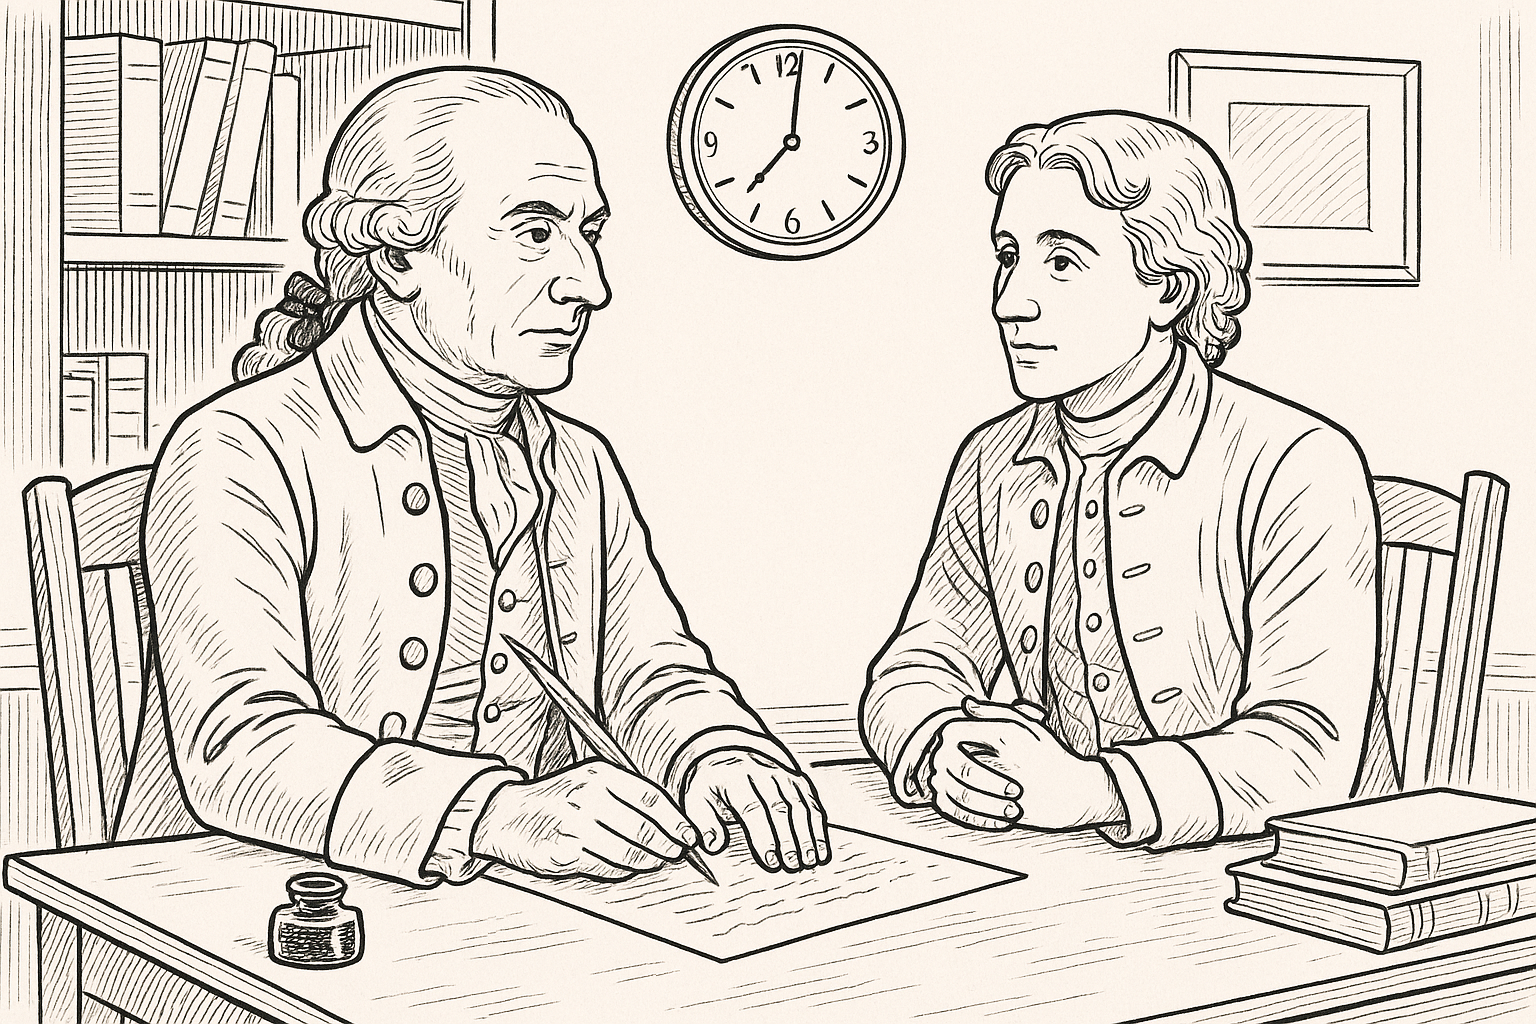
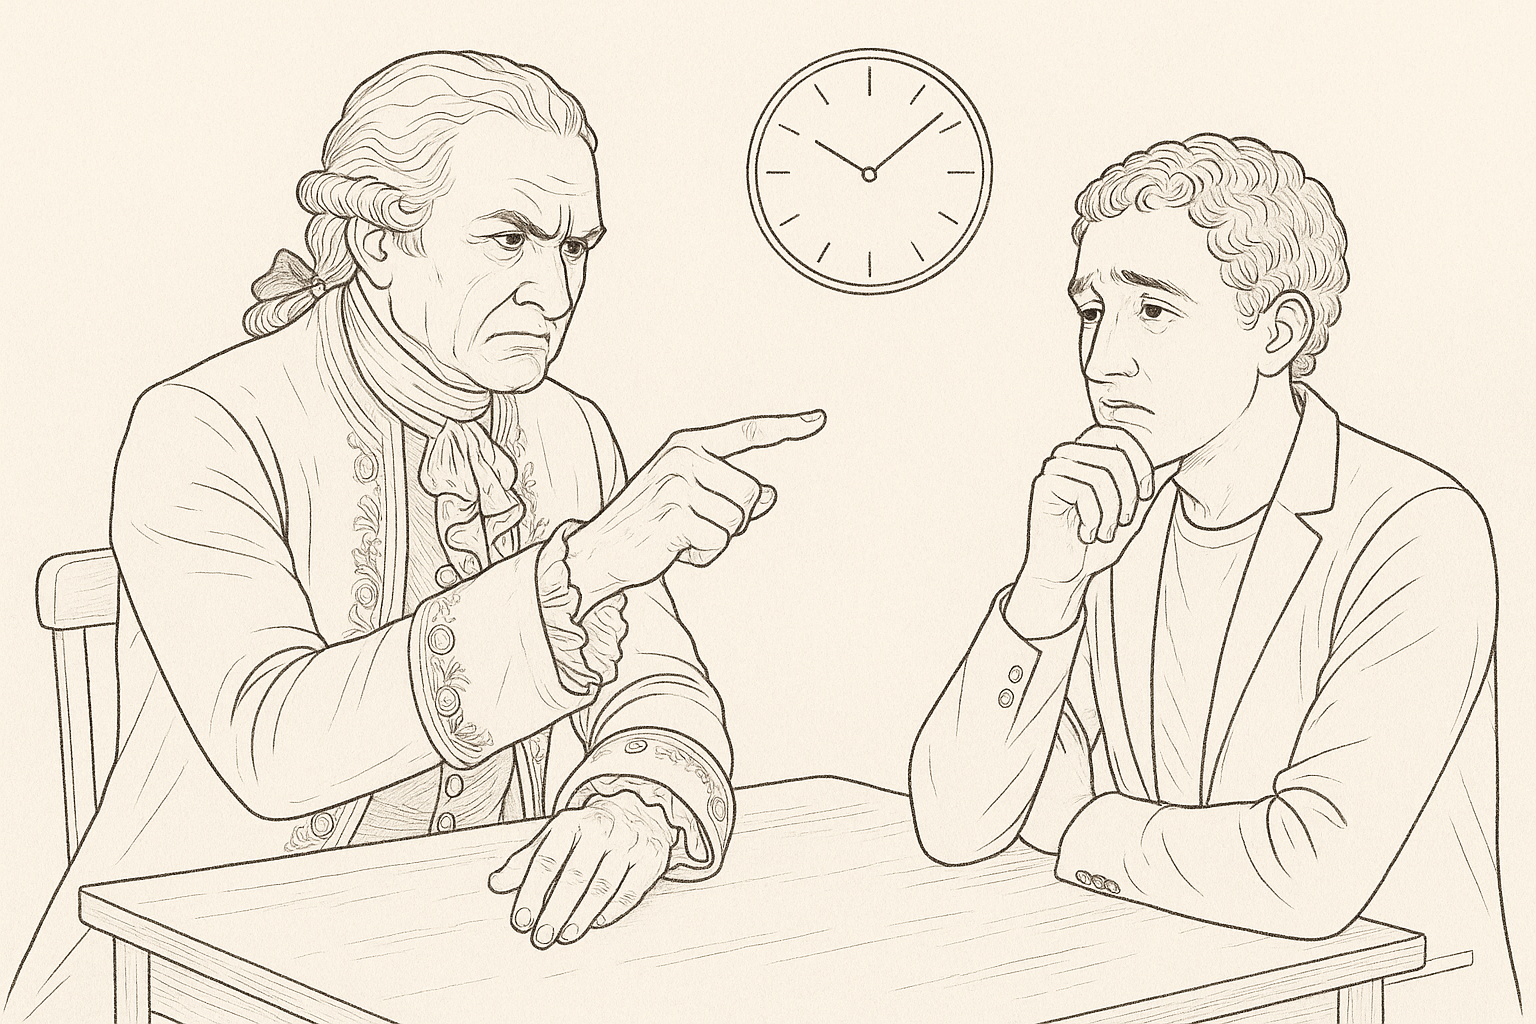
Checkpoint: 对话背景插画重新设计完成 - 细腻现代古典融合风格
主要更新：
1. 重新生成所有5张背景插画
2. 画风：细腻线条 + 现代古典融合 + 写实简约
3. 细腻的线条和阴影，精致的细节刻画
4. 写实的人物表情和服饰细节
5. 体现"毒舌对话"的张力氛围
   - 哲学家：主导、质疑、指责的姿态
   - 用户：被质疑、防御、困惑、不安的姿态
6. 各哲学家专属特色：
   - 苏格拉底：古希腊长袍，石柱背景
   - 尼采：标志性大胡须，山峰背景
   - 维特根斯坦：眼镜，书架背景
   - 康德：18世纪服饰，时钟背景
   - 弗洛伊德：圆眼镜胡须，书架背景

Changed region(s): [[0.0, 0.0, 1.0, 1.0], [0.9688, 0.0312, 1.0, 0.1562], [0.3125, 0.9688, 0.3438, 1.0]]

diff --git a/todo.md b/todo.md
@@ -705,3 +705,26 @@
 - [x] 推送更新到 GitHub
 - [ ] 等待 Vercel/Netlify 自动部署并测试
 
+
+
+
+## 统一背景插画风格
+- [x] 重新生成５张插画，确保统一的画风和线条风格
+- [x] 保持两人面对面坐在桌前对话的构图
+- [x] 统一线条粗细、细节程度、风格
+- [x] 推送更新到 GitHub
+- [ ] 等待 Vercel/Netlify 自动部署并测试
+
+
+
+
+## 重新设计背景插画 - 细腻现代古典融合风格
+- [x] 画风：细腻线条 + 现代古典融合 + 写实简约
+- [x] 细腻的线条和阴影，精致的细节刻画
+- [x] 现代简约的构图，保留古典元素
+- [x] 写实的人物表情和服饰细节
+- [x] 体现“毒舌对话”的张力氛围
+- [x] 重新生成５张插画
+- [x] 推送更新到 GitHub
+- [ ] 等待 Vercel/Netlify 自动部署并测试
+
